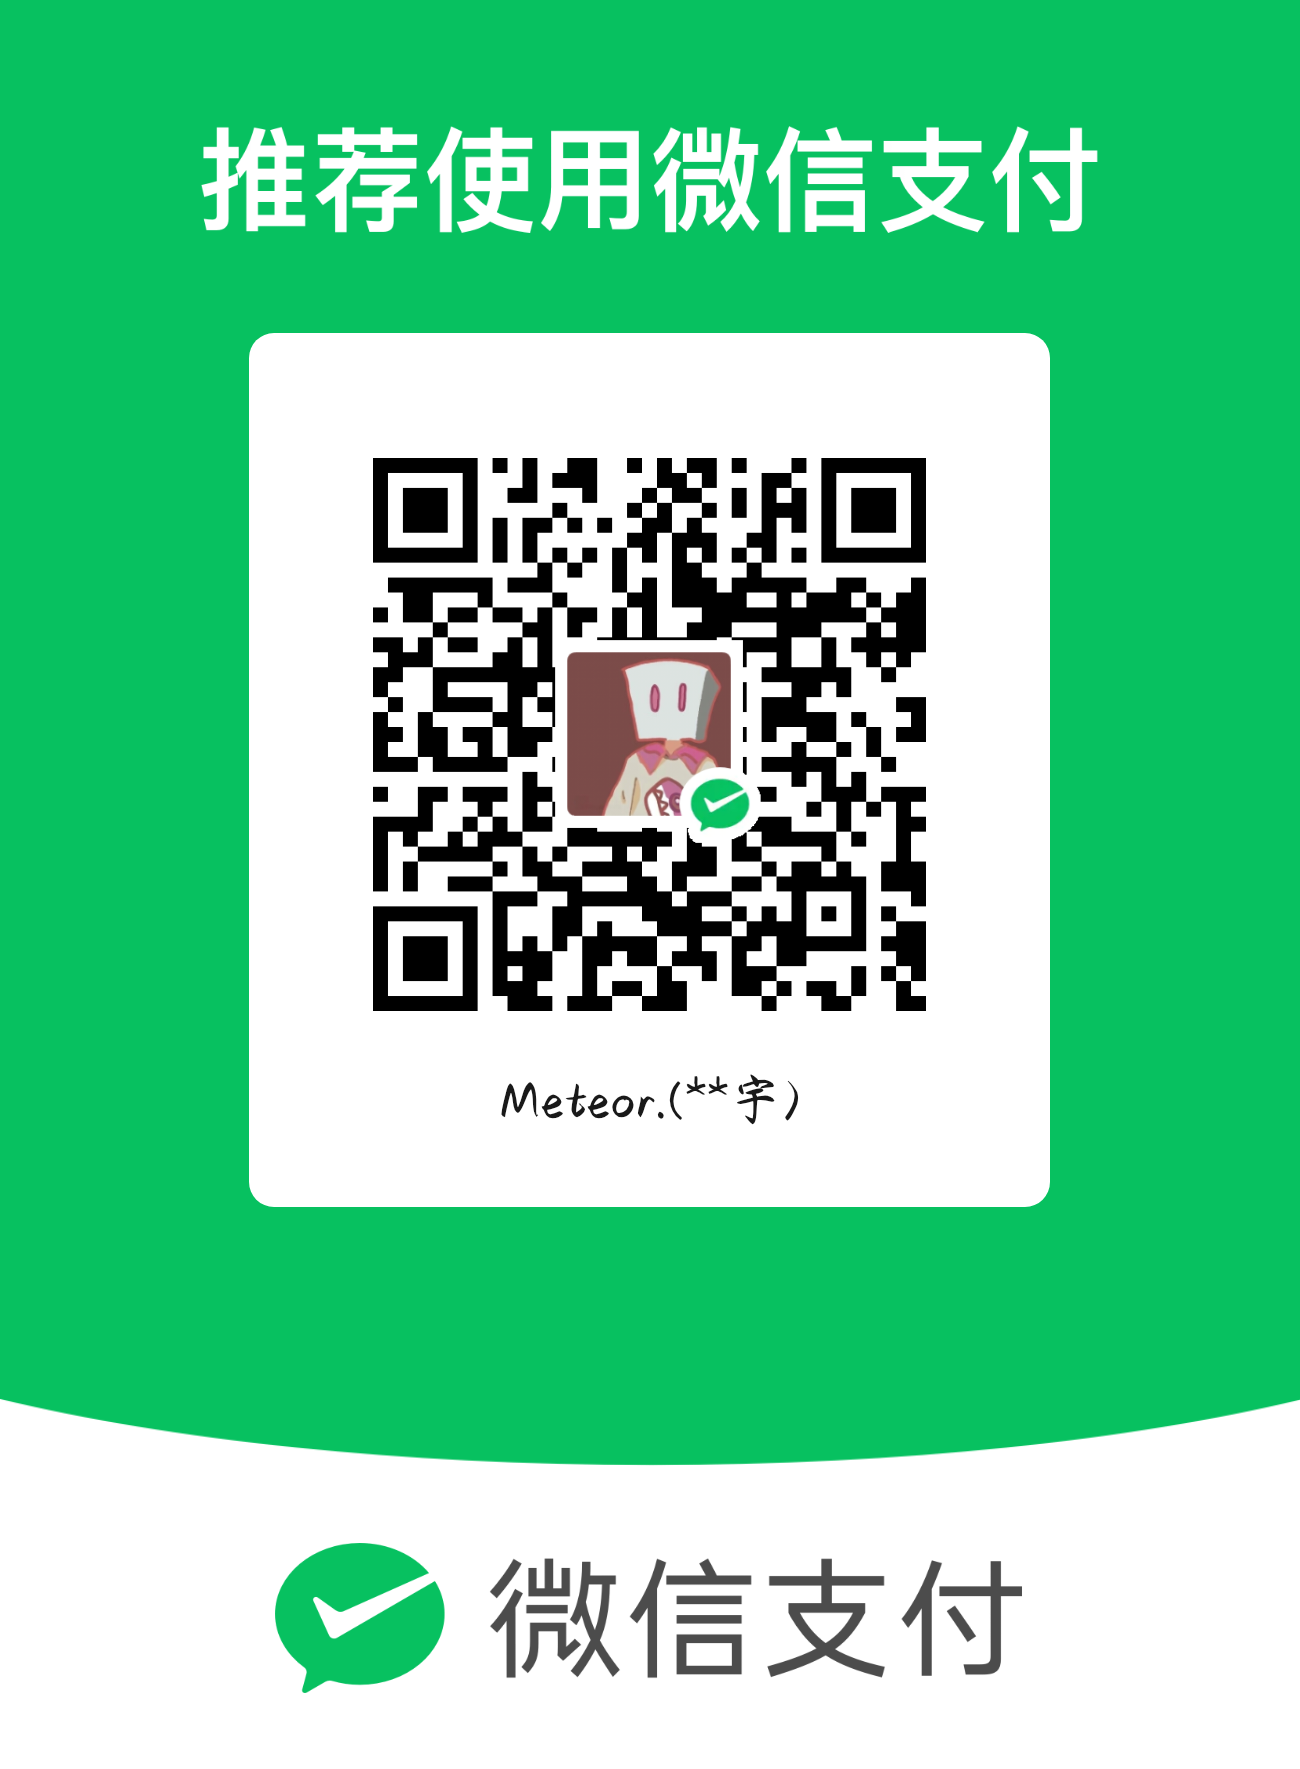
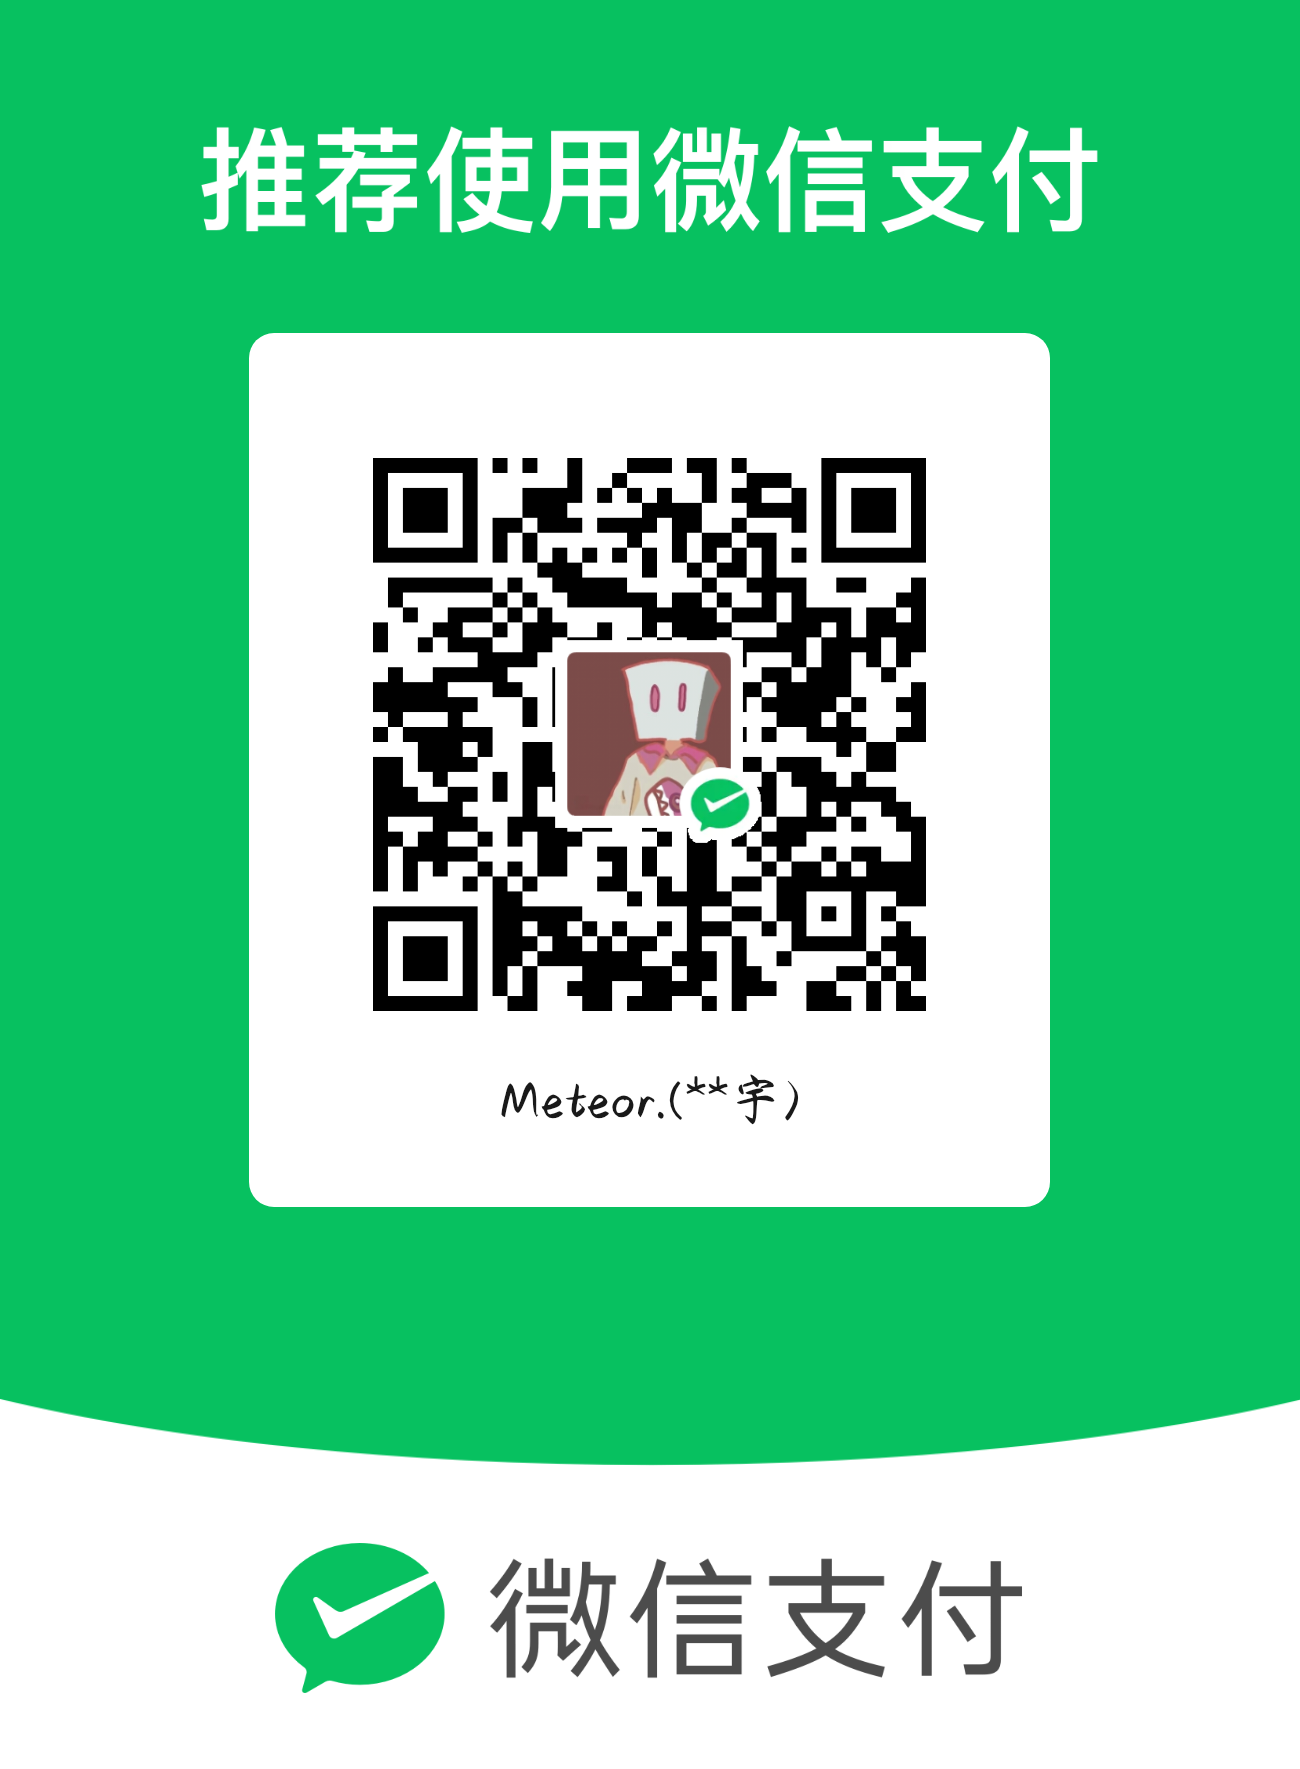
feat: 新增「支持我」赞赏页（支付宝/微信收款码）

Changed region(s): [[0.2769, 0.2487, 0.7077, 0.5907]]

diff --git a/src/app/[locale]/support/page.tsx b/src/app/[locale]/support/page.tsx
@@ -1,0 +1,98 @@
+import type { Metadata } from 'next';
+import Image from 'next/image';
+import { getTranslations, setRequestLocale } from 'next-intl/server';
+import Header from '@/components/Header';
+import Footer from '@/components/Footer';
+
+export async function generateMetadata({
+  params,
+}: {
+  params: Promise<{ locale: string }>;
+}): Promise<Metadata> {
+  const { locale } = await params;
+  const t = await getTranslations({ locale, namespace: 'SupportPage' });
+
+  return {
+    title: t('title'),
+    description: t('description'),
+  };
+}
+
+export default async function SupportPage({
+  params,
+}: {
+  params: Promise<{ locale: string }>;
+}) {
+  const { locale } = await params;
+  setRequestLocale(locale);
+  const t = await getTranslations({ locale, namespace: 'SupportPage' });
+
+  return (
+    <div className="min-h-screen bg-background text-foreground">
+      <Header />
+
+      <main>
+        <div className="mx-auto max-w-4xl px-4 py-20">
+          {/* 页头 */}
+          <div className="mb-12 text-center">
+            <p className="t-eyebrow mb-4 text-white/60">{t('eyebrow')}</p>
+            <h1 className="t-title-1 mb-4">{t('title')}</h1>
+            <p className="t-body mx-auto max-w-2xl text-white/60">
+              {t('description')}
+            </p>
+          </div>
+
+          {/* 收款码双卡片 */}
+          <div className="grid grid-cols-1 gap-6 md:grid-cols-2">
+            {/* 支付宝 */}
+            <div className="glass-card relative overflow-hidden rounded-xl p-8 text-center">
+              <div
+                className="pointer-events-none absolute -top-16 left-1/2 h-40 w-40 -translate-x-1/2 rounded-full bg-blue-500/15 blur-[80px]"
+                aria-hidden="true"
+              />
+              <h2 className="t-title-3 t-on-glass relative mb-6">{t('alipayTitle')}</h2>
+              <div className="relative inline-block rounded-lg bg-white p-2">
+                <Image
+                  src="/alipay-qr.png"
+                  alt={t('alipayTitle')}
+                  width={240}
+                  height={360}
+                  unoptimized
+                  className="h-auto w-60 rounded-md"
+                />
+              </div>
+              <p className="t-body relative mt-6 text-white/60">{t('alipayHint')}</p>
+            </div>
+
+            {/* 微信 */}
+            <div className="glass-card relative overflow-hidden rounded-xl p-8 text-center">
+              <div
+                className="pointer-events-none absolute -top-16 left-1/2 h-40 w-40 -translate-x-1/2 rounded-full bg-green-500/15 blur-[80px]"
+                aria-hidden="true"
+              />
+              <h2 className="t-title-3 t-on-glass relative mb-6">{t('wechatTitle')}</h2>
+              <div className="relative inline-block rounded-lg bg-white p-2">
+                <Image
+                  src="/wechat-qr.png"
+                  alt={t('wechatTitle')}
+                  width={240}
+                  height={327}
+                  unoptimized
+                  className="h-auto w-60 rounded-md"
+                />
+              </div>
+              <p className="t-body relative mt-6 text-white/60">{t('wechatHint')}</p>
+            </div>
+          </div>
+
+          {/* 免责说明 */}
+          <p className="t-footnote mt-12 text-center text-white/50">
+            {t('disclaimer')}
+          </p>
+        </div>
+      </main>
+
+      <Footer />
+    </div>
+  );
+}

diff --git a/src/app/sitemap.ts b/src/app/sitemap.ts
@@ -38,6 +38,7 @@ export default async function sitemap(): Promise<MetadataRoute.Sitemap> {
     { url: `${BASE_URL}/blog`, lastModified: now, changeFrequency: 'monthly' as const, priority: 0.6 },
     { url: `${BASE_URL}/blog/stars`, lastModified: now, changeFrequency: 'monthly' as const, priority: 0.4 },
     { url: `${BASE_URL}/story`, lastModified: now, changeFrequency: 'yearly' as const, priority: 0.5 },
+    { url: `${BASE_URL}/support`, lastModified: now, changeFrequency: 'monthly' as const, priority: 0.4 },
     { url: `${BASE_URL}/docs`, lastModified: now, changeFrequency: 'monthly' as const, priority: 0.5 },
     { url: `${BASE_URL}/contact`, lastModified: now, changeFrequency: 'monthly' as const, priority: 0.4 },
     { url: `${BASE_URL}/feedback`, lastModified: now, changeFrequency: 'monthly' as const, priority: 0.3 },

diff --git a/src/components/Footer.tsx b/src/components/Footer.tsx
@@ -12,6 +12,7 @@ const resourceLinks = [
   { key: 'docs', href: '/docs' },
   { key: 'blog', href: '/blog' },
   { key: 'story', href: '/story' },
+  { key: 'support', href: '/support' },
 ] as const;
 
 const companyLinks = [

diff --git a/docs/superpowers/specs/2026-08-15-support-page-design.md b/docs/superpowers/specs/2026-08-15-support-page-design.md
@@ -1,0 +1,77 @@
+# Meteor Store「支持我」赞赏页设计
+
+> 日期：2026-08-15
+
+## 目标
+
+新增一个独立的轻量赞赏页面 `/support`（中英双语，自动跟随站点语言），展示店主个人的支付宝与微信收款二维码，定位为「赞赏支持作者」而非慈善募捐。纯静态展示，不接任何支付 API、不做金额统计、不改动现有公司支付体系。
+
+## 背景与约束
+
+- 收款码是**个人码**（不走公司帐），页面文案必须避开「慈善募捐」类措辞，定位为「支持我 / 请我喝杯咖啡」。
+- 站内已有 `public/wechat-qr.png`（旧图，本次将被新微信码替换）；支付宝码为本次新增，转 PNG 存入 `public/alipay-qr.png`。
+- 全站暗色主题、玻璃材质；二维码图片必须**白底原样渲染**（`next/image` 用 `unoptimized`，避免优化管线破坏可扫码性）。
+- 双语 i18n：`messages/zh.json` + `messages/en.json` 各加 `SupportPage` 命名空间与 `Footer.support` 键；路由用 next-intl `[locale]` 段，无需额外配置（`localePrefix: 'always'`）。
+
+## 已确认决策
+
+- 页面路径：`/support`（`src/app/[locale]/support/page.tsx`）。
+- 入口：仅页脚 `resourceLinks` 增加「支持我 ☕」链接，不动 Header 导航、不动首页。
+- 文案语气：轻松真诚（方案 A）。
+- 布局：桌面双卡片并排、移动端堆叠；支付宝卡蓝色调、微信卡绿色调；卡片标题 + 二维码 + 扫码提示。
+- 底部小字免责：「赞赏是自愿的，不附带任何权益或售后服务」。
+- 二维码图片：`<Image unoptimized>` 渲染，尺寸约 260×260。
+
+## 页面结构
+
+```
+src/app/[locale]/support/page.tsx     # 服务端组件：generateMetadata + 双卡布局
+public/alipay-qr.png                  # 新图（由用户 JPG 转换）
+public/wechat-qr.png                  # 替换为新微信码
+messages/zh.json / en.json            # SupportPage + Footer.support
+src/components/Footer.tsx             # resourceLinks 加一项
+src/app/sitemap.ts                    # staticPages 加 /support
+```
+
+### 文案（zh）
+
+| key | 文案 |
+|-----|------|
+| title | 支持我 |
+| description | 如果这些工具真的帮到了你，请我喝杯咖啡吧。 |
+| eyebrow | 赞赏支持 |
+| alipayTitle | 支付宝 |
+| alipayHint | 打开支付宝扫一扫 |
+| wechatTitle | 微信 |
+| wechatHint | 微信扫一扫 |
+| disclaimer | 赞赏是自愿的，不附带任何权益或售后服务 |
+| footer 链接 | 支持我 ☕ |
+
+### 文案（en）
+
+| key | 文案 |
+|-----|------|
+| title | Support Me |
+| description | If these tools truly helped you, buy me a coffee. |
+| eyebrow | Buy Me a Coffee |
+| alipayTitle | Alipay |
+| alipayHint | Scan with Alipay |
+| wechatTitle | WeChat |
+| wechatHint | Scan with WeChat |
+| disclaimer | Tips are voluntary and come with no benefits or after-sales service. |
+| footer 链接 | Support Me ☕ |
+
+## 验证
+
+- `pnpm exec tsc --noEmit`
+- `pnpm exec eslint src`
+- `pnpm test`
+- `pnpm build`
+- 手工冒烟：`/zh/support` 与 `/en/support` 可访问、双语切换正确；两码在暗色卡片上白底清晰可扫；页脚「支持我 ☕」链接可达；sitemap 含双语 `/support` 条目。
+
+## 非目标
+
+- 不做赞赏金额统计、不做后端接口、不接支付 API、不做登录态。
+- 不加 Header 导航入口、不动首页布局。
+- 不改动现有 `PaymentModal` / 公司支付体系。
+- 不做「慈善募捐」定位与文案。
